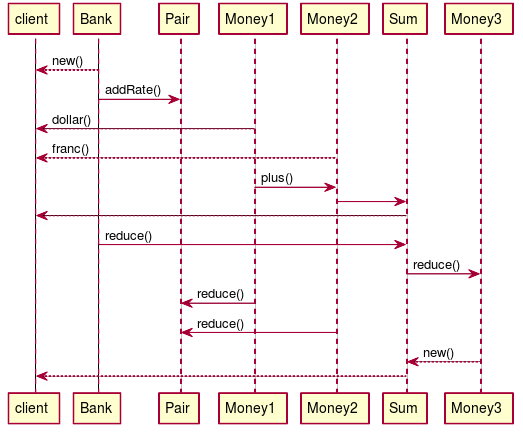
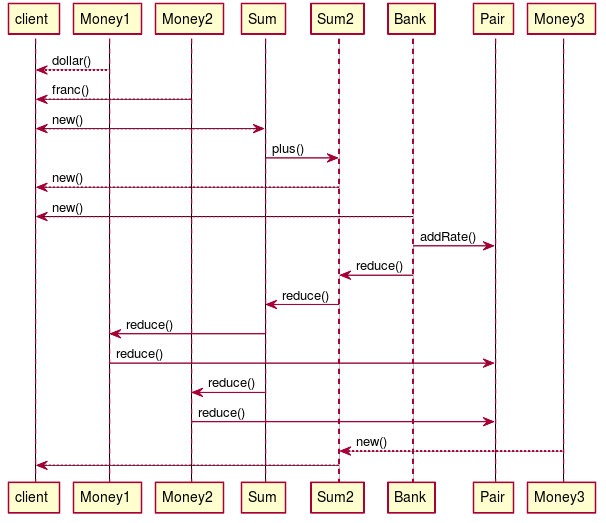
第１６章 将来の読み手を考えたテスト Step3

Changed region(s): [[0.0, 0.0, 1.0, 0.9885], [0.153, 0.7788, 0.1836, 0.8088], [0.153, 0.5691, 0.1836, 0.5991]]

diff --git a/src/main/java/tdd/money/Sum.java b/src/main/java/tdd/money/Sum.java
@@ -8,7 +8,7 @@ class Sum implements Expression {
         this.addend = addend;
     }
     public Expression plus(Expression added) {
-        return null;
+        return new Sum(this, addend);
     }
     public Money reduce(Bank bank, String to) {
         int amount = augend.reduce(bank, to).amount + addend.reduce(bank, to).amount;

diff --git a/docs/src/TDD.md b/docs/src/TDD.md
@@ -97,19 +97,21 @@ Bank o-l Pair
 ```
 ### シーケンス図
 ```puml
-client <-- Bank :new()
-Bank -> Pair :addRate()
 client <-- Money1 :dollar()
 client <-- Money2 :franc()
-Money1 -> Money2 :plus()
-Money2 -> Sum
-client <-- Sum
-Bank -> Sum :reduce()
-Sum -> Money3 :reduce()
+client <--> Sum :new()
+Sum -> Sum2 :plus()
+client <-- Sum2 :new()
+client <-- Bank :new()
+Bank -> Pair :addRate()
+Bank -> Sum2 :reduce()
+Sum2 -> Sum :reduce()
+Sum -> Money1 :reduce()
 Money1 -> Pair :reduce()
+Sum -> Money2 :reduce()
 Money2 -> Pair :reduce()
-Sum <-- Money3 :new()
-client <-- Sum
+Sum2 <-- Money3 :new()
+client <-- Sum2
 ```
 
 ## コード

diff --git a/docs/TDD.md b/docs/TDD.md
@@ -50,11 +50,11 @@
 ### クラス図
   
 
-![](./assets/0285dfa24ee25b18e00bb369b57da6820.png?0.4550919701969509)  
+![](./assets/0285dfa24ee25b18e00bb369b57da6820.png?0.7065110010585012)  
 ### シーケンス図
   
 
-![](./assets/0285dfa24ee25b18e00bb369b57da6821.png?0.8367977994946676)  
+![](./assets/0285dfa24ee25b18e00bb369b57da6821.png?0.7016510122427086)  
   
 ## コード
   
